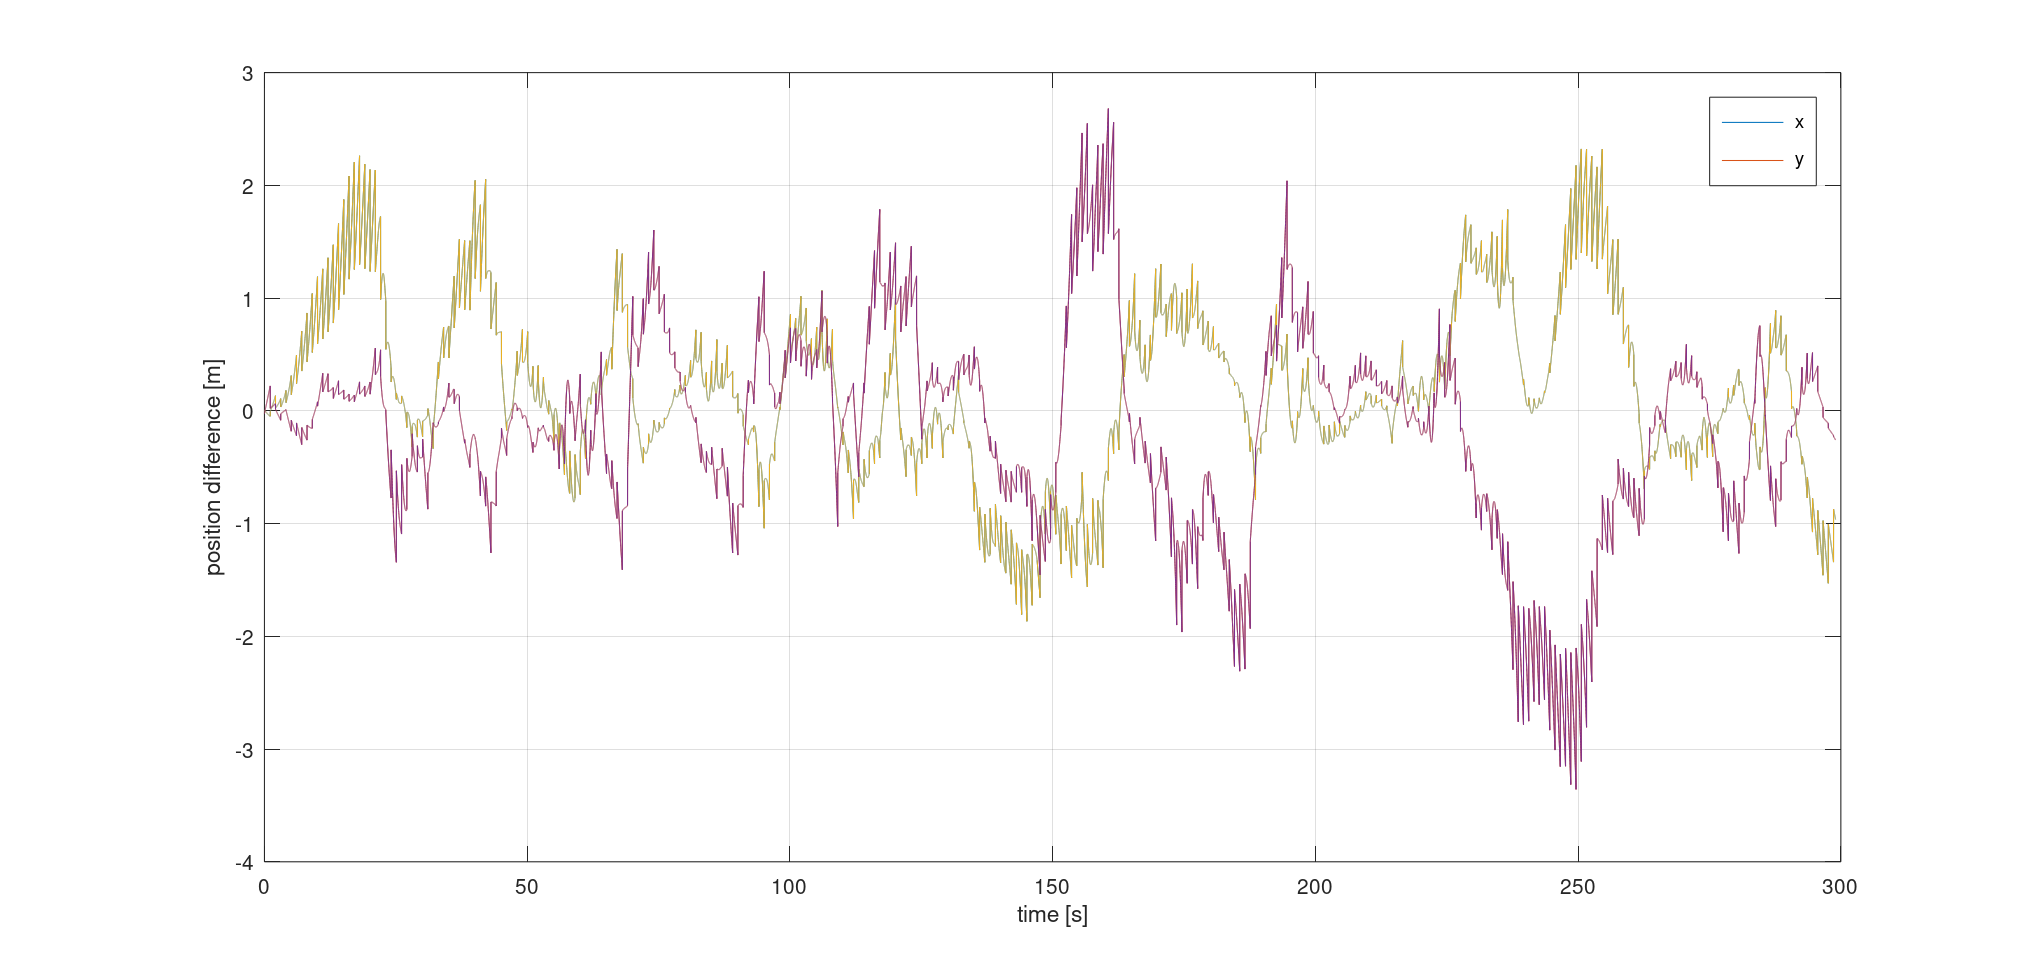
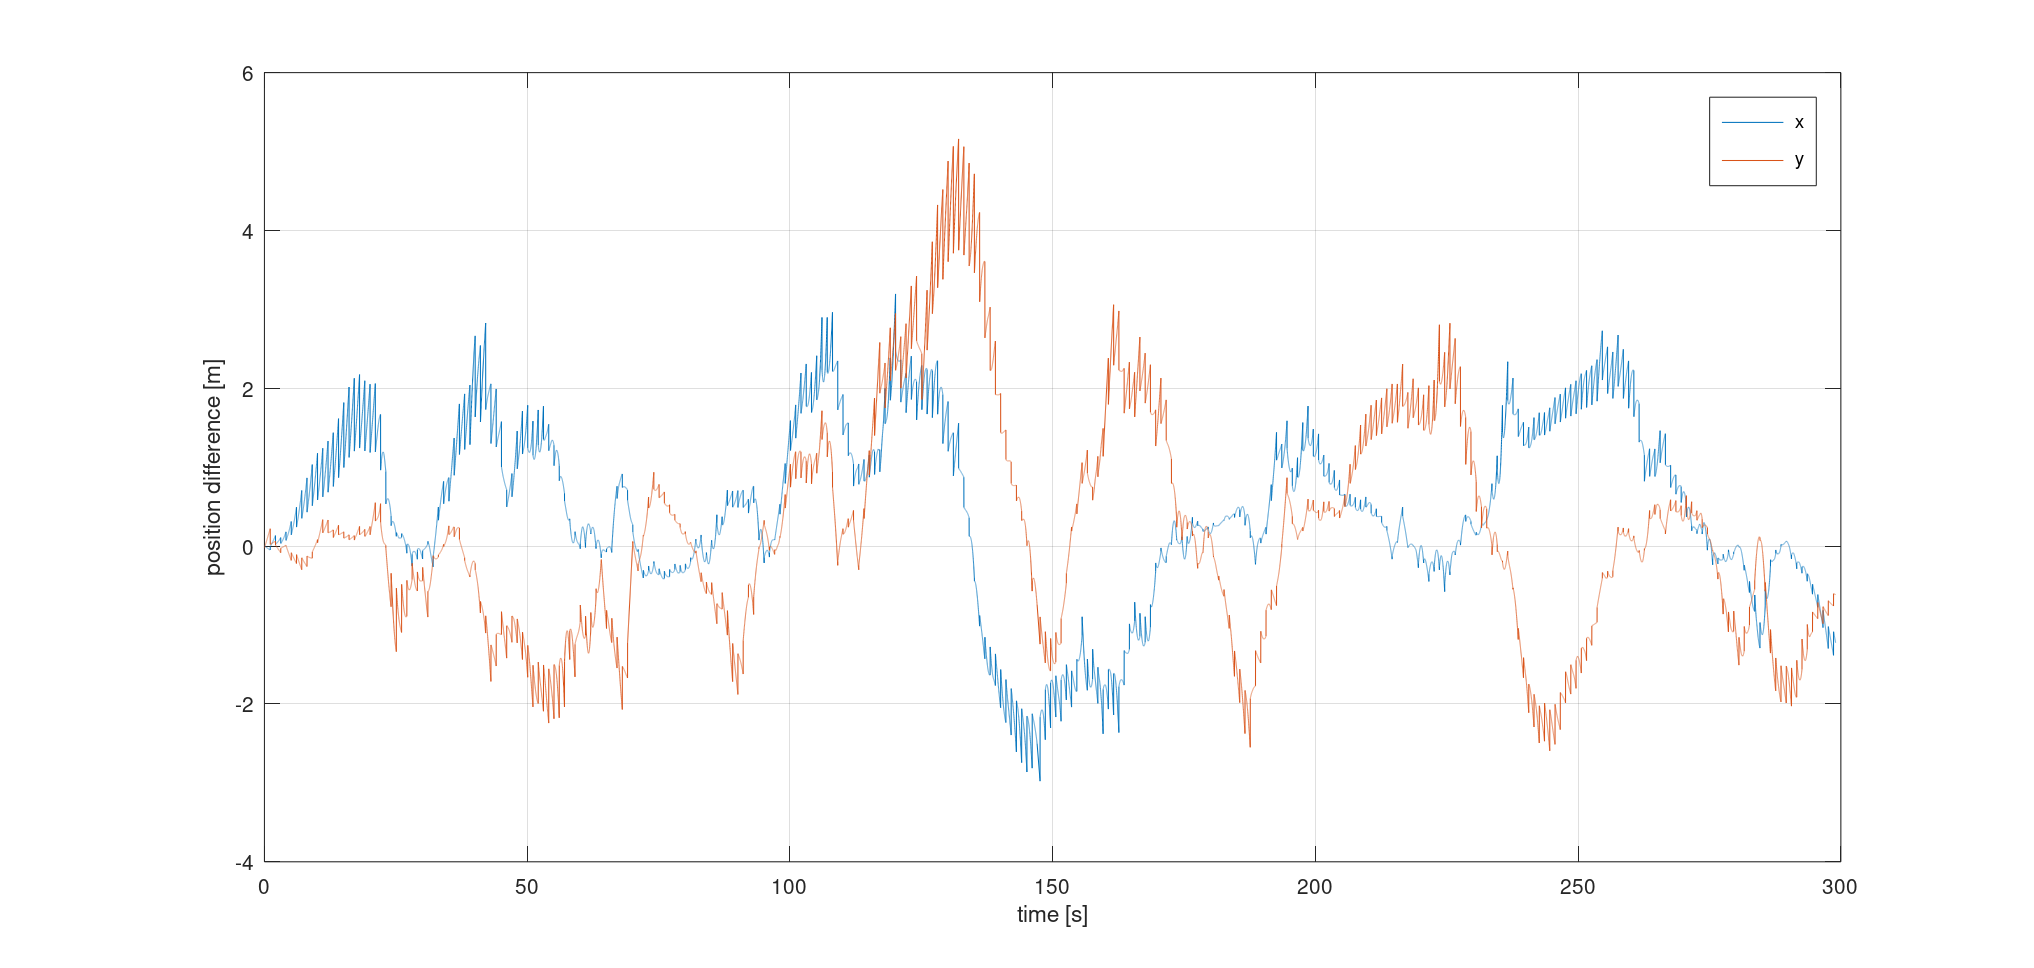
+imgs

diff --git a/GPSaidedIMU/get_settings.m b/GPSaidedIMU/get_settings.m
@@ -16,7 +16,7 @@ function settings=get_settings()
 %%%%%%%%%%%%%%%%%%%%%%%%%%%%%%%%%%%%%%%%%%%%%
 settings.gnss_outage = 'on';
 settings.outagestart = 200; settings.outagestop = Inf;
-settings.non_holonomic = 'on';
+settings.non_holonomic = 'off';
 settings.speed_aiding = 'off';
 
 settings.init_heading = 320*pi/180;
@@ -45,7 +45,7 @@ settings.factp(1) = 10;                                 % Position [m]
 settings.factp(2) = 5;                                  % Velocity [m/s]
 settings.factp(3:5) = (pi/180*[1 1 20]');               % Attitude (roll,pitch,yaw) [rad]
 settings.factp(6) = 0.02;                               % Accelerometer biases [m/s^2]
-settings.factp(7) = (0.05*pi/180);                      % Gyro biases [rad/s]
+settings.factp(7) = (0.06*pi/180);                      % Gyro biases [rad/s]
 
 
 end
